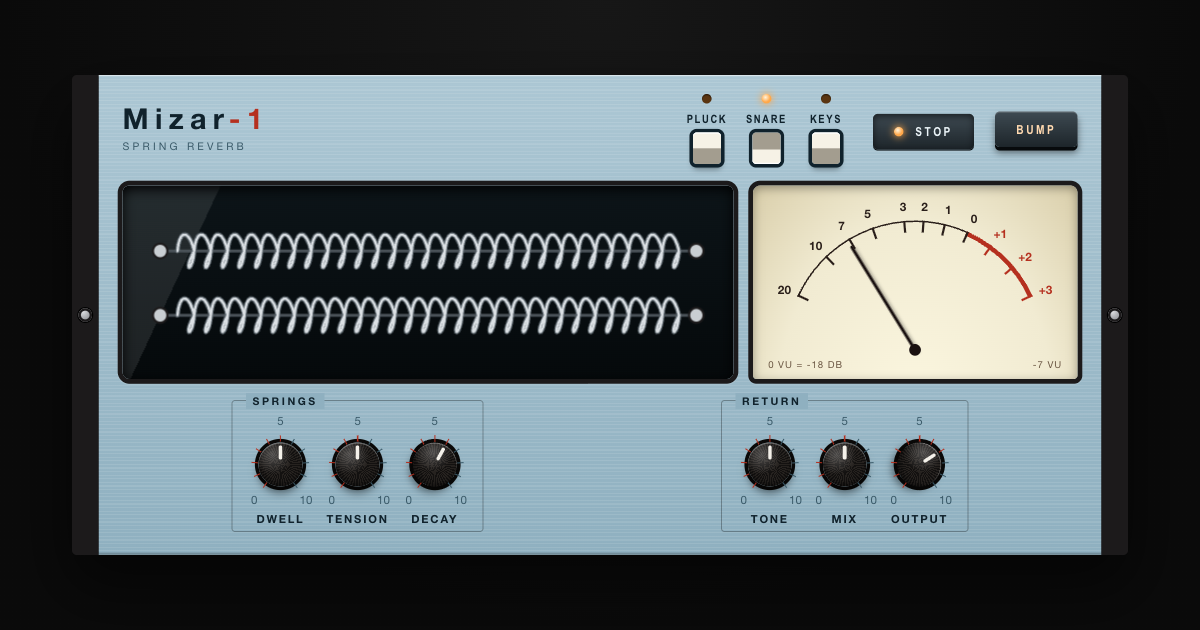
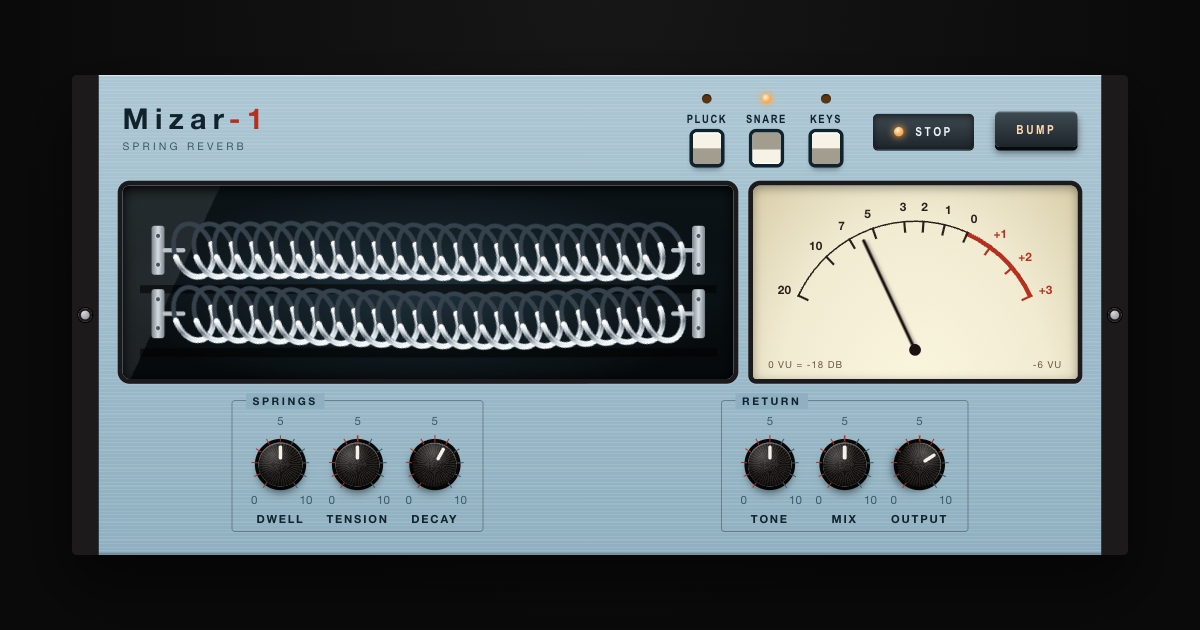
lab: Mizar-1's springs are shaded helices that shake as a wave
Each spring is a coil of turns seen from the side: a dark back arc and a chrome
front arc with a highlight, a shadow under it, plates with bolts at its ends.
It sags a little under its weight and shakes as a standing wave, the middle
turns moving most and the ones at the hooks hardly at all, in place of a line
that moved as one piece.

Changed region(s): [[0.1233, 0.3317, 0.5858, 0.573], [0.7092, 0.3921, 0.7708, 0.5429]]

diff --git a/apps/lab/src/components/devices/mizar-1/ui/tank.tsx b/apps/lab/src/components/devices/mizar-1/ui/tank.tsx
@@ -1,37 +1,42 @@
 import type { Source } from "@audio-ui/core";
-import { useEffect, useMemo, useRef } from "react";
+import { useEffect, useId, useMemo, useRef } from "react";
 import { useAudioLevels } from "@/hooks/use-audio-levels";
 
-const TURNS = 30;
 const WIDTH = 400;
+const TURNS = 24;
+const LEFT = 30;
+const RIGHT = WIDTH - 30;
+const STEP = (RIGHT - LEFT) / TURNS;
+/** How wide and how tall a turn is, and how far it leans: a coil seen from the side, its wire running diagonally. */
+const RADIUS_X = STEP * 0.92;
+const RADIUS_Y = 19;
+const LEAN = -20;
 const SPRINGS = [
   { id: "long", y: 38 },
   { id: "short", y: 82 },
 ] as const;
 
-/** One spring's coil: a line that goes up and down along its length, as a wire wound on a rod looks from the side. */
-function coil(y: number) {
-  const left = 26;
-  const right = WIDTH - 26;
-  const step = (right - left) / TURNS;
-  let path = `M ${left} ${y}`;
-  for (let turn = 0; turn < TURNS; turn += 1) {
-    const x = left + turn * step;
-    path += ` C ${x + step * 0.1} ${y - 15}, ${x + step * 0.7} ${y - 15}, ${x + step} ${y}`;
-    path += ` C ${x + step * 0.9} ${y + 15}, ${x + step * 0.3} ${y + 15}, ${x + step} ${y}`;
-  }
-  return path;
-}
+/** One turn's two halves: the back one, behind the coil, and the front one, in the light. */
+const BACK = `M ${-RADIUS_X} 0 A ${RADIUS_X} ${RADIUS_Y} 0 0 1 ${RADIUS_X} 0`;
+const FRONT = `M ${-RADIUS_X} 0 A ${RADIUS_X} ${RADIUS_Y} 0 0 0 ${RADIUS_X} 0`;
 
-const COILS = SPRINGS.map((spring) => ({ ...spring, path: coil(spring.y) }));
+const TURN_LIST = Array.from({ length: TURNS }, (_, index) => ({
+  index,
+  /** Where the turn is along the spring, from 0 to 180 degrees: the shake is the greatest in the middle, as a plucked string's. */
+  phase: ((index + 0.5) / TURNS) * 180,
+  x: LEFT + (index + 0.5) * STEP,
+}));
 
 /** The decibels from which the springs begin to shake, and from which they shake as hard as they do. */
 const FLOOR_DB = -55;
 const FULL_DB = -15;
 
+type Levels = Source<{ levels: readonly number[] }>;
+
 /**
- * The tank: two springs on their hooks, shaking with the sound that goes
- * through them. Their shake is a CSS variable written outside React from the
+ * The tank: two springs on their hooks, each a coil of shaded turns that sags a
+ * little under its own weight and shakes as a standing wave with the sound that
+ * goes through it. The shake is a CSS variable written outside React from the
  * output's level, so the picture follows the signal with no render a frame.
  */
 export function Tank({
@@ -41,15 +46,14 @@ export function Tank({
   analyser: AnalyserNode | null;
   bumped: boolean;
 }) {
+  const id = useId();
   const root = useRef<HTMLDivElement>(null);
   const nodes = useMemo(() => (analyser ? [analyser] : []), [analyser]);
   const levels = useAudioLevels(nodes);
 
   useEffect(() => {
     const follow = () => {
-      const [db] = (
-        levels as Source<{ levels: readonly number[] }>
-      ).getSnapshot().levels;
+      const [db] = (levels as Levels).getSnapshot().levels;
       const amount = Math.min(
         1,
         Math.max(0, ((db ?? FLOOR_DB) - FLOOR_DB) / (FULL_DB - FLOOR_DB))
@@ -57,7 +61,7 @@ export function Tank({
       root.current?.style.setProperty("--shake", amount.toFixed(3));
     };
     follow();
-    return (levels as Source<{ levels: readonly number[] }>).subscribe(follow);
+    return (levels as Levels).subscribe(follow);
   }, [levels]);
 
   return (
@@ -72,24 +76,100 @@ export function Tank({
         className="mizar-tank-svg"
         viewBox={`0 0 ${WIDTH} 120`}
       >
-        {COILS.map((spring) => (
+        <defs>
+          <linearGradient id={`${id}-wire`} x1="0" x2="0" y1="0" y2="1">
+            <stop offset="0" stopColor="#ffffff" />
+            <stop offset="0.22" stopColor="#c4cfd6" />
+            <stop offset="0.5" stopColor="#6a7780" />
+            <stop offset="0.78" stopColor="#cdd8de" />
+            <stop offset="1" stopColor="#f4f8fa" />
+          </linearGradient>
+          <linearGradient id={`${id}-plate`} x1="0" x2="1" y1="0" y2="0">
+            <stop offset="0" stopColor="#7b858c" />
+            <stop offset="0.5" stopColor="#d6dde1" />
+            <stop offset="1" stopColor="#7b858c" />
+          </linearGradient>
+        </defs>
+        {SPRINGS.map((spring) => (
           <g className="mizar-spring" data-spring={spring.id} key={spring.id}>
+            <ellipse
+              className="mizar-shadow"
+              cx={WIDTH / 2}
+              cy={spring.y + 27}
+              rx={RIGHT - LEFT - 20}
+              ry={3.5}
+            />
+            <rect
+              fill={`url(#${id}-plate)`}
+              height={34}
+              rx={2}
+              width={9}
+              x={8}
+              y={spring.y - 17}
+            />
+            <rect
+              fill={`url(#${id}-plate)`}
+              height={34}
+              rx={2}
+              width={9}
+              x={WIDTH - 17}
+              y={spring.y - 17}
+            />
+            {[12.5, WIDTH - 12.5].flatMap((x) =>
+              [spring.y - 10, spring.y + 10].map((y) => (
+                <circle
+                  className="mizar-bolt"
+                  cx={x}
+                  cy={y}
+                  key={`${x}-${y}`}
+                  r={1.7}
+                />
+              ))
+            )}
             <line
-              className="mizar-rod"
-              x1={10}
-              x2={WIDTH - 10}
+              className="mizar-hook"
+              x1={17}
+              x2={LEFT}
               y1={spring.y}
               y2={spring.y}
             />
-            <path className="mizar-coil-back" d={spring.path} fill="none" />
-            <path className="mizar-coil" d={spring.path} fill="none" />
-            <circle className="mizar-hook" cx={14} cy={spring.y} r={5} />
-            <circle
+            <line
               className="mizar-hook"
-              cx={WIDTH - 14}
-              cy={spring.y}
-              r={5}
+              x1={RIGHT}
+              x2={WIDTH - 17}
+              y1={spring.y}
+              y2={spring.y}
             />
+            {TURN_LIST.map((turn) => (
+              <g
+                className="mizar-turn"
+                key={turn.index}
+                style={
+                  {
+                    "--i": turn.index,
+                    "--p": `${turn.phase}deg`,
+                  } as React.CSSProperties
+                }
+              >
+                <g
+                  transform={`translate(${turn.x} ${spring.y}) rotate(${LEAN})`}
+                >
+                  <path className="mizar-coil-back" d={BACK} fill="none" />
+                  <path
+                    className="mizar-coil-front"
+                    d={FRONT}
+                    fill="none"
+                    stroke={`url(#${id}-wire)`}
+                  />
+                  <path
+                    className="mizar-coil-light"
+                    d={FRONT}
+                    fill="none"
+                    transform="translate(0 -1.1) scale(0.97 1)"
+                  />
+                </g>
+              </g>
+            ))}
           </g>
         ))}
       </svg>

diff --git a/apps/lab/src/components/devices/mizar-1/index.css b/apps/lab/src/components/devices/mizar-1/index.css
@@ -240,6 +240,11 @@
   padding: 0.5rem 0.9rem;
   background:
     linear-gradient(115deg, rgb(255 255 255 / 0.1) 0 14%, transparent 14%),
+    radial-gradient(
+      ellipse at 50% 55%,
+      rgb(110 170 205 / 0.22),
+      transparent 72%
+    ),
     linear-gradient(180deg, #0c1418, #05090b);
   border-radius: 6px;
   box-shadow:
@@ -263,55 +268,64 @@
   width: 100%;
 }
 
-.mizar-rod {
-  stroke: #4a5258;
-  stroke-width: 2;
-}
-
 .mizar-coil-back {
-  stroke: #5c666d;
+  stroke: #36424b;
   stroke-width: 3.2;
   stroke-linecap: round;
 }
 
-.mizar-coil {
-  opacity: 0.9;
-  stroke: #e9eef1;
-  stroke-width: 1.6;
+.mizar-coil-front {
+  stroke-width: 4;
   stroke-linecap: round;
 }
 
+.mizar-coil-light {
+  opacity: 0.7;
+  stroke: #fff;
+  stroke-width: 0.9;
+  stroke-linecap: round;
+}
+
+.mizar-shadow {
+  fill: rgb(0 0 0 / 0.55);
+}
+
+.mizar-bolt {
+  fill: #4a545b;
+  stroke: #e8eef1;
+  stroke-width: 0.5;
+}
+
 .mizar-hook {
-  fill: #c9ced2;
-  stroke: #1c1a1b;
-  stroke-width: 1.5;
+  stroke: #b9c3c9;
+  stroke-width: 3;
+  stroke-linecap: round;
 }
 
-.mizar-spring {
-  transform-origin: center;
-  transform-box: fill-box;
-  animation: mizar-shake 0.085s linear infinite alternate;
+/* A turn sags a little under its own weight, most in the middle, and shakes as a standing wave: the turns in the middle move most, the ones at the hooks not at all, each a hair behind the one before */
+.mizar-turn {
+  --k: calc(var(--shake) + var(--bump));
+  transform: translateY(calc(sin(var(--p)) * 2.5px));
+  animation: mizar-wave 0.11s linear infinite alternate;
+  animation-delay: calc(var(--i) * -4ms);
 }
 
-.mizar-spring[data-spring="short"] {
-  animation-duration: 0.12s;
-  animation-direction: alternate-reverse;
+.mizar-spring[data-spring="short"] .mizar-turn {
+  animation-duration: 0.085s;
 }
 
-@keyframes mizar-shake {
+@keyframes mizar-wave {
   from {
-    transform: translateY(calc((var(--shake) + var(--bump)) * -3px))
-      scaleY(calc(1 - (var(--shake) + var(--bump)) * 0.08));
+    transform: translateY(calc(sin(var(--p)) * (2.5px - var(--k) * 4.5px)));
   }
 
   to {
-    transform: translateY(calc((var(--shake) + var(--bump)) * 3px))
-      scaleY(calc(1 + (var(--shake) + var(--bump)) * 0.08));
+    transform: translateY(calc(sin(var(--p)) * (2.5px + var(--k) * 4.5px)));
   }
 }
 
 @media (prefers-reduced-motion: reduce) {
-  .mizar-spring {
+  .mizar-turn {
     animation: none;
   }
 }
